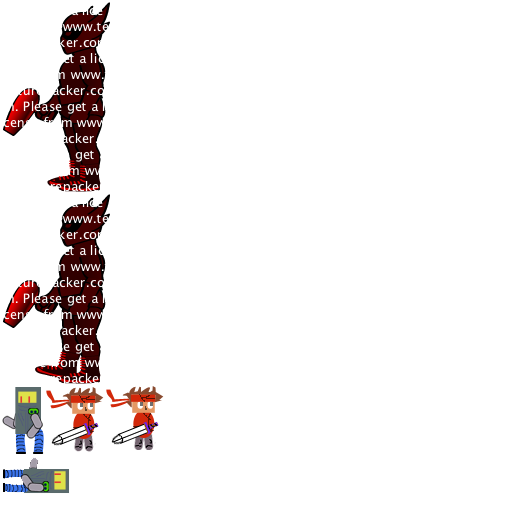
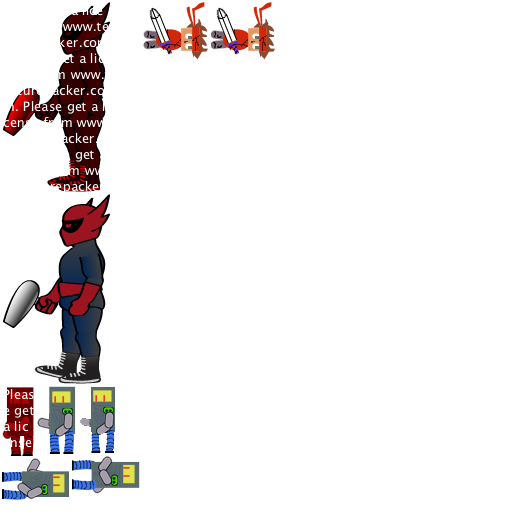
tried plist animations

Changed region(s): [[0.0, 0.375, 0.3125, 1.0], [0.2812, 0.0, 0.5312, 0.125]]

diff --git a/SwipeNinja/SwipeNinja/Robot.m b/SwipeNinja/SwipeNinja/Robot.m
@@ -40,12 +40,14 @@ static void separate(cpArbiter *arb, cpSpace *space, void *ignore) {
 
 - (void)initAnimations
 {
-    walkingAnimation = [CCAnimation animation];
-        [walkingAnimation addFrameWithFilename:@"Robot2.png"];           
-        [walkingAnimation addFrameWithFilename:@"Robot3.png"];
-        [walkingAnimation addFrameWithFilename:@"Robot4.png"];
-
-    
+    walkingAnimation = [self loadPlistForAnimationWithName:@"walkAnim" andClassName:NSStringFromClass([self class])];
+    [[CCAnimationCache sharedAnimationCache] addAnimation:walkingAnimation name:@"walkAnim"];
+//    walkingAnimation = [CCAnimation animation];
+//        [walkingAnimation addFrameWithFilename:@"Robot2.png"];           
+//        [walkingAnimation addFrameWithFilename:@"Robot3.png"];
+//        [walkingAnimation addFrameWithFilename:@"Robot4.png"];
+//
+//    
 }
 
 
@@ -106,14 +108,15 @@ static void separate(cpArbiter *arb, cpSpace *space, void *ignore) {
     if (characterState != kStateWalking && [self numberOfRunningActions] == 0) {
         [self changeState:kStateWalking];
     }
-    if (characterState == kStateWalking) {        
-        id robotAnimationAction =
-        [CCAnimate actionWithDuration:0.5f
-                            animation:walkingAnimation
-                 restoreOriginalFrame:YES];                       
-        id repeatRobotAnimation =
-        [CCRepeatForever actionWithAction:robotAnimationAction];  
-        [self runAction:repeatRobotAnimation];
+    if (characterState == kStateWalking) { 
+        [CCRepeat actionWithAction:[CCAnimate actionWithAnimation:walkingAnimation restoreOriginalFrame:YES]times:3];
+//        id robotAnimationAction =
+//        [CCAnimate actionWithDuration:0.5f
+//                            animation:walkingAnimation
+//                 restoreOriginalFrame:YES];                       
+//        id repeatRobotAnimation =
+//        [CCRepeatForever actionWithAction:robotAnimationAction];  
+//        [self runAction:repeatRobotAnimation];
         
         double curTime = CACurrentMediaTime();
         double timeMoving = curTime - movingStartTime;
